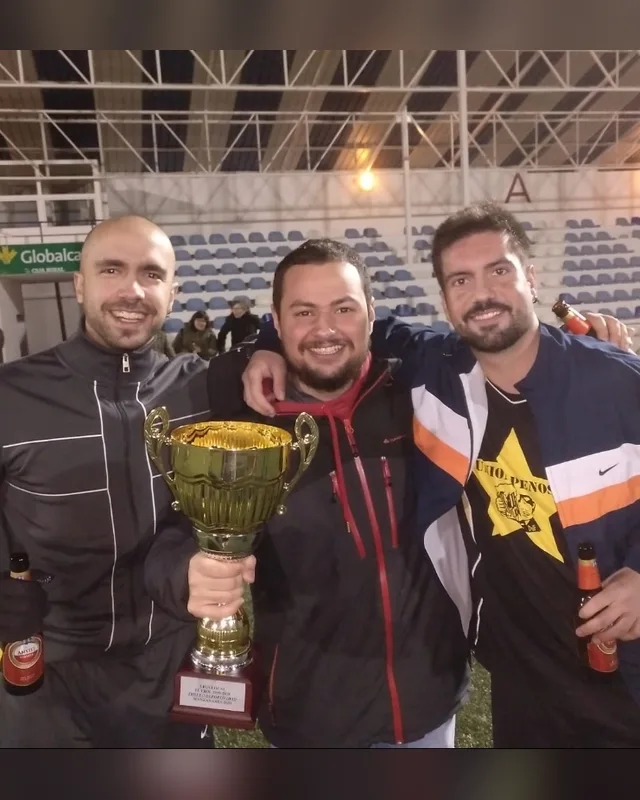
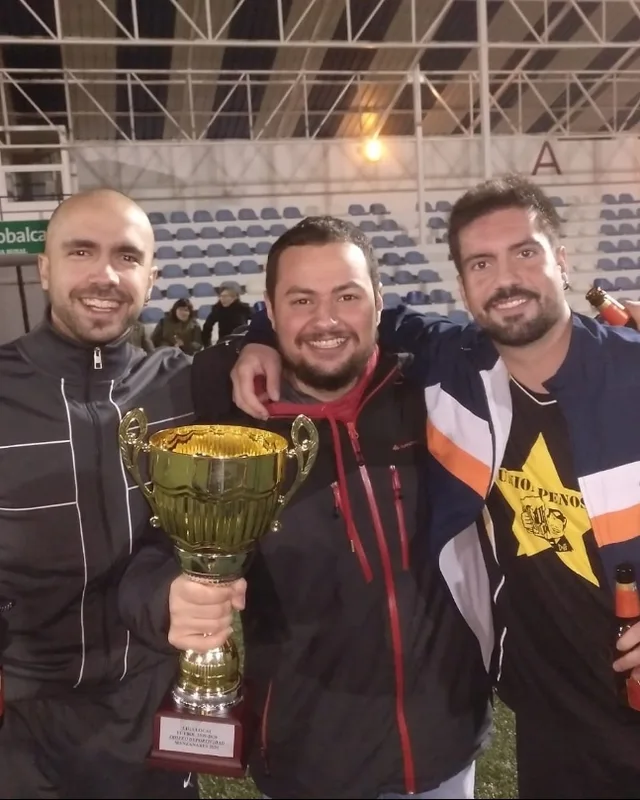
Add files via upload

diff --git a/index.html b/index.html
@@ -475,7 +475,7 @@ async function cargar() {
 }
 
 // Retratos definitivos guardados en la propia web (carga rápida e igual para todos)
-const RETRATOS_V = {richi: 4, sonia: 3};
+const RETRATOS_V = {richi: 5, sonia: 3};
 const RETRATOS_FIJOS = new Set(["richi","consuheladillo","aitor","shere","fran","bea","edu","patri","carlos","mario","cani","chechu","manuelmolada","pablo","sonia"]);
 function srcRetrato(s, n) {
   if (s.retrato !== 'demo' && RETRATOS_FIJOS.has(normN(s.nombre))) return '/r-' + normN(s.nombre) + '.webp?v=' + (RETRATOS_V[normN(s.nombre)] || 1);
